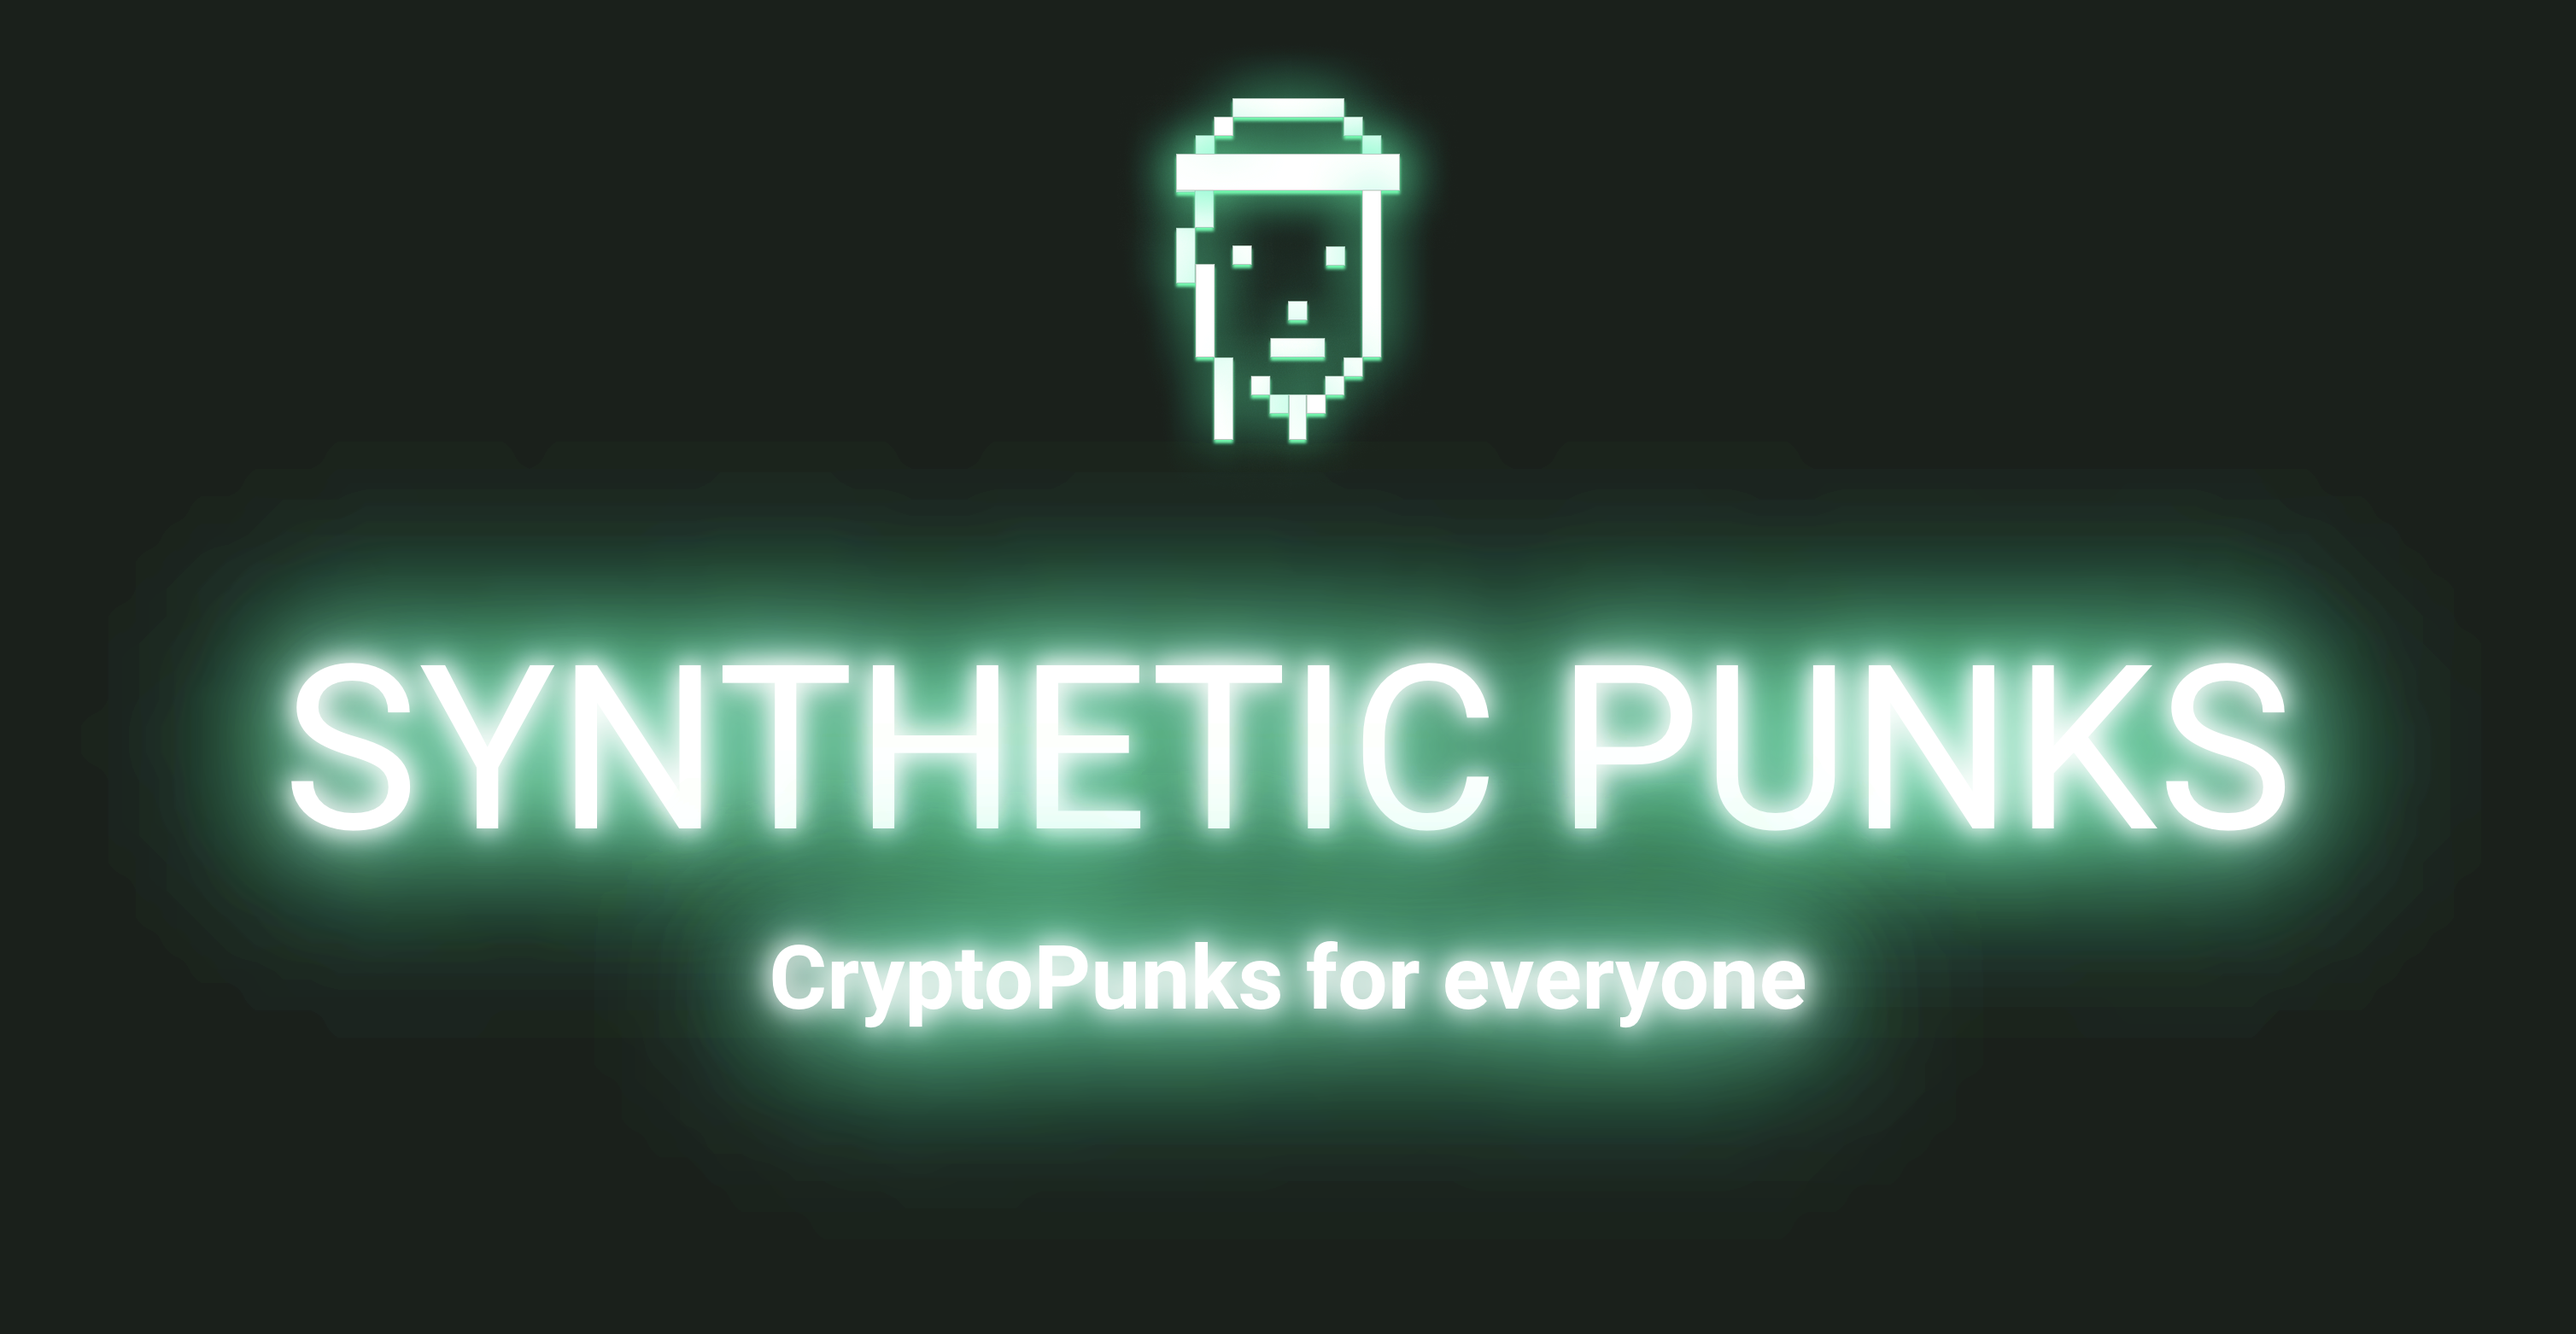
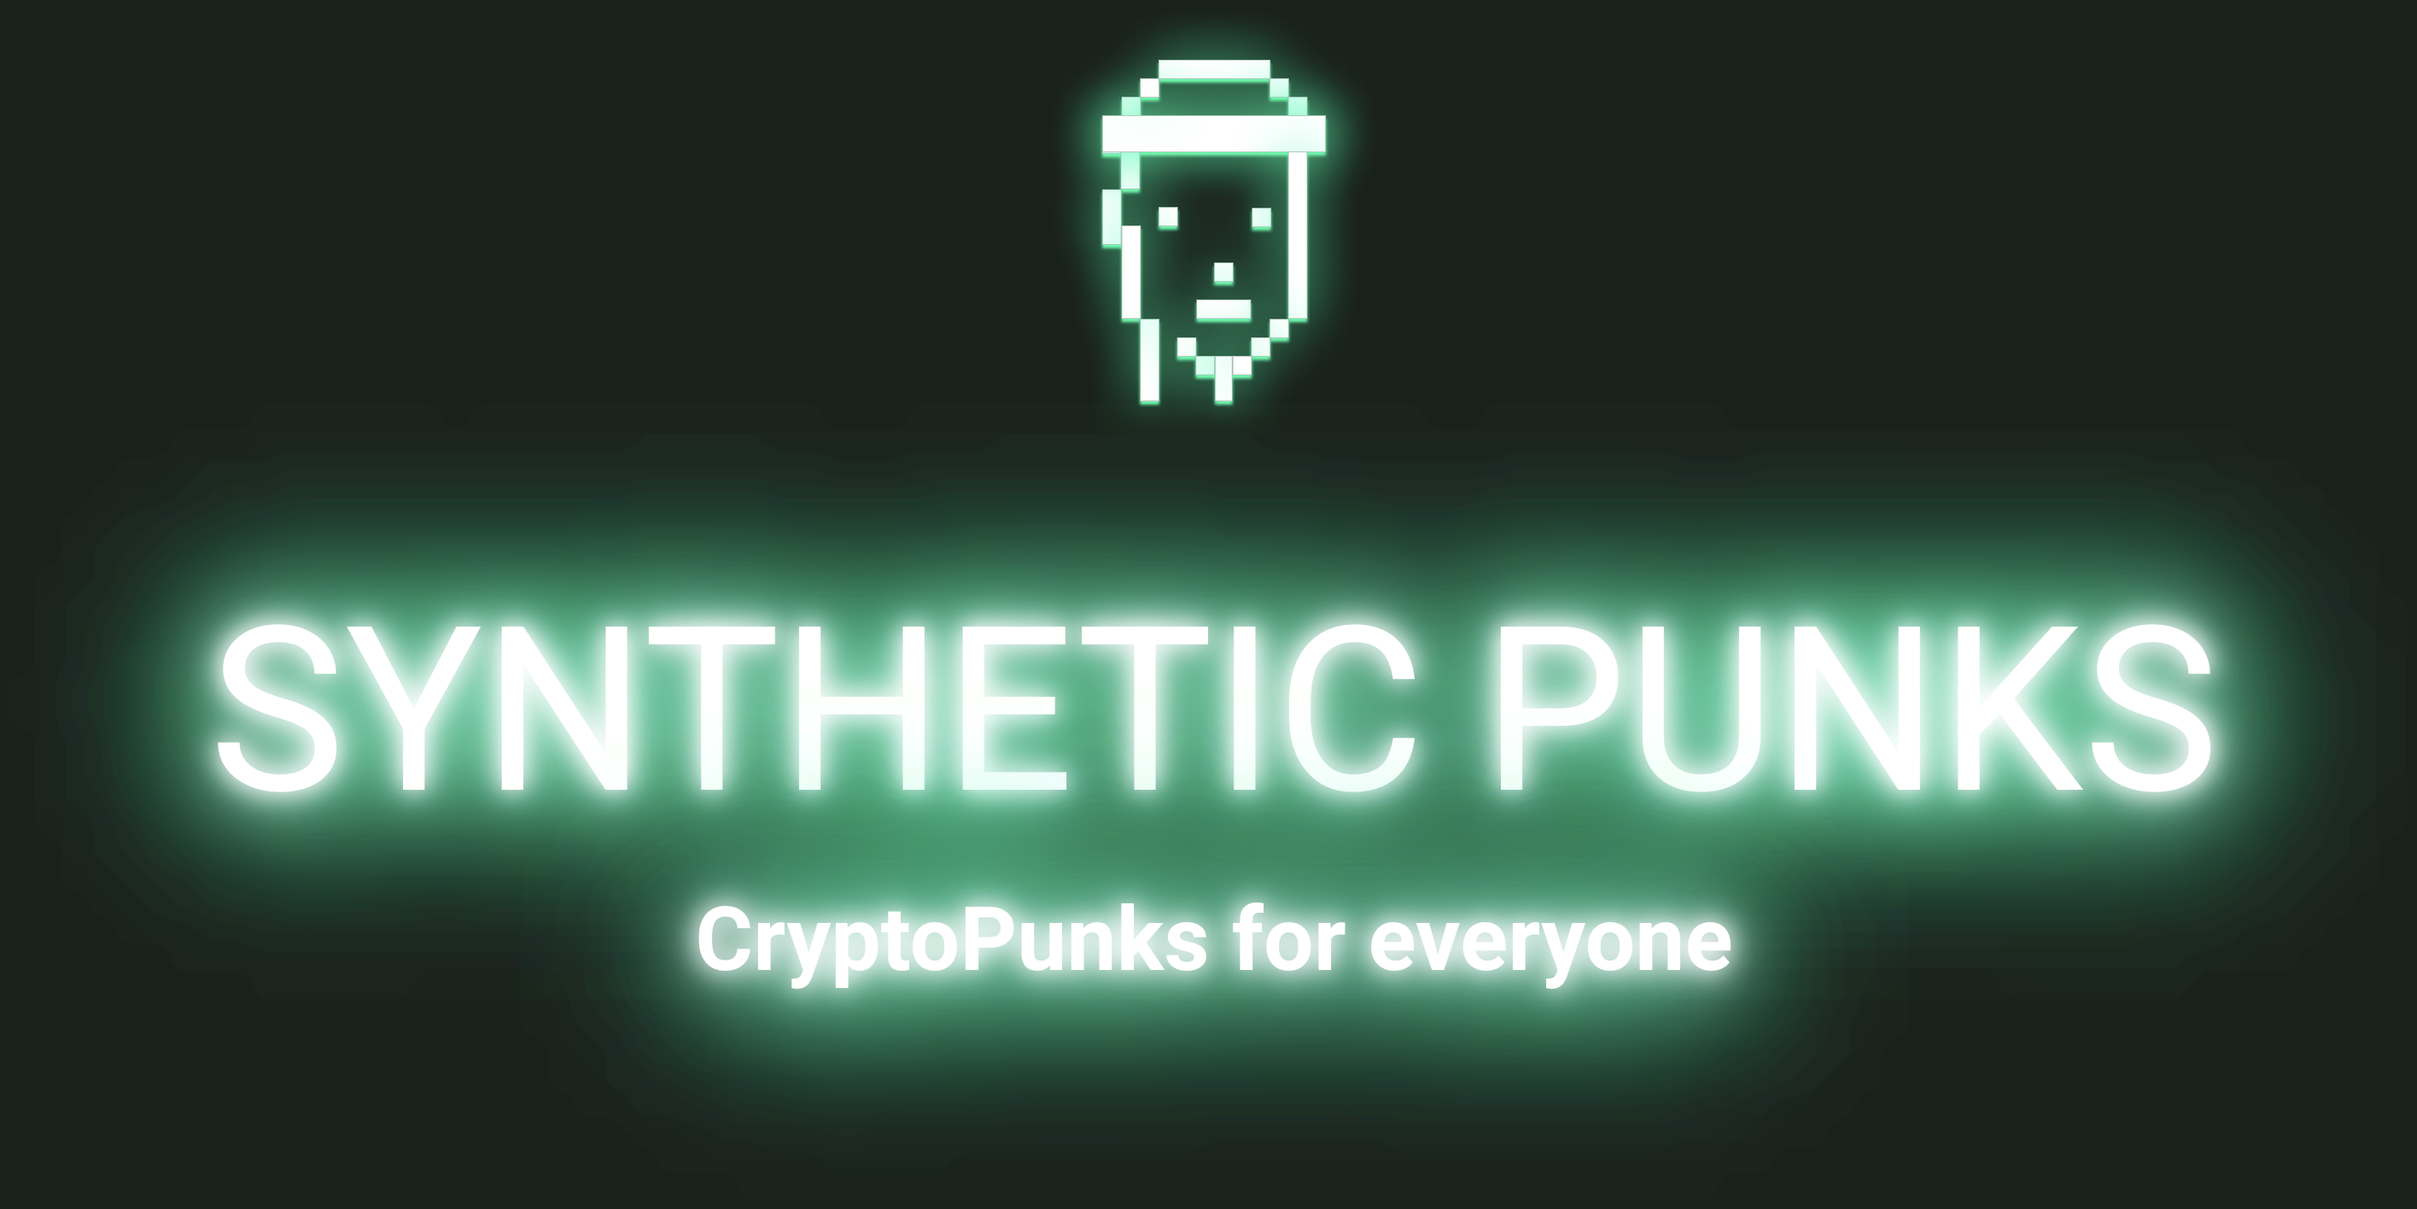
Add connect modal, crop header, update home layout

Changed region(s): [[0.0311, 0.4661, 0.9636, 0.9011], [0.4352, 0.0311, 0.5595, 0.3418]]

diff --git a/client/src/components/ConnectButton/ConnectButton.tsx b/client/src/components/ConnectButton/ConnectButton.tsx
@@ -1,6 +1,7 @@
 import { useEffect, useState } from 'react';
 import { useAccount, useConnect, useSigner } from 'wagmi'
 import { truncateAddress } from "../../utilities";
+import { GenericModal } from '../GenericModal/GenericModal';
 import style from "./ConnectButton.module.css"
 
 export const ConnectButton = () => {
@@ -18,29 +19,30 @@ export const ConnectButton = () => {
   }, [signer])
 
   return (
-    <div style={{marginTop:"0px", marginBottom:"70px"}}>
+    <>
       {accountData 
       ? 
         <button className={style.connectBtn}onClick={() => disconnect()}>Disconnect {ensName || truncateAddress(accountData.address)}</button> 
       : 
         <button className={style.connectBtn} onClick={() => setIsConnecting(!isConnecting)}>Connect</button> 
       }
-      {isConnecting && 
-      <div className={style.connectModalCard}>
-        {connectData.connectors.map((connector) => (
-          <button className={style.walletOption}
-            disabled={!connector.ready}
-            key={connector.id}
-            onClick={() => connect(connector)}
-          >
-            {connector.name}
-            {!connector.ready && ' (unsupported)'}
-          </button>
-        ))}
-        <button className={style.backBtn} onClick={() => setIsConnecting(!isConnecting)} >Back </button>
-        {error && <div>{error?.message ?? 'Failed to connect'}</div>}
-      </div>
-      }
-    </div>
+      <GenericModal setShouldShow={setIsConnecting} shouldShow={isConnecting} content={
+        <div className={style.connectModalCard}>
+          <h1 style={{textAlign: "left", marginBottom: "20px"}}>Connect</h1>
+          {connectData.connectors.map((connector) => (
+            <button className={style.walletOption}
+              disabled={!connector.ready}
+              key={connector.id}
+              onClick={() => connect(connector)}
+            >
+              {connector.name}
+              {!connector.ready && ' (unsupported)'}
+            </button>
+          ))}
+          {/* <button className={style.backBtn} onClick={() => setIsConnecting(!isConnecting)} >Back </button> */}
+          {error && <div>{error?.message ?? 'Failed to connect'}</div>}
+        </div>
+      }></GenericModal>
+    </>
   )
 }

diff --git a/client/src/App.tsx b/client/src/App.tsx
@@ -41,14 +41,17 @@ function App() {
         <a href="https://github.com/stephancill/synthetic-punks" target="_blank" rel="noopener noreferrer"><img src={github}/></a>
         <a href="https://etherscan.io/address/0xaf9ce4b327a3b690abea6f78eccbfefffbea9fdf" target="_blank" rel="noopener noreferrer"><img src={etherscan}/></a>
       </div>
-      <ConnectButton/>
+      <div style={{marginTop: "40px", marginBottom: "40px", width: "90%", maxWidth: "400px", display: "flex", justifyContent: "center"}}>
+        <ConnectButton/>
+      </div>
+      
       {network && switchNetwork && network.chain?.id !== deploymentChain 
       ?
         <button onClick={() => switchNetwork(deploymentChain)}>Switch to {deployments.name}</button>
       :
         <Routes>
           <Route path="/" element={
-            <div style={{display: "flex", width: "90%", maxWidth: "400px"}}>
+            <div style={{display: "flex", width: "90%", maxWidth: "400px", marginBottom: "40px"}}>
               <Search onSearch={(address) => navigate(`/address/${address}`)}/>
             </div>
           }/>

diff --git a/client/src/components/GenericModal/GenericModal.tsx b/client/src/components/GenericModal/GenericModal.tsx
@@ -1,0 +1,30 @@
+import style from "./GenericModal.module.css"
+import {useEffect} from "react"
+
+interface IGenericModalProps {
+  shouldShow: boolean
+  setShouldShow: (visible: boolean) => void,
+  content: JSX.Element
+}
+
+export const GenericModal = ({shouldShow, setShouldShow, content}: IGenericModalProps) => {
+
+  useEffect(() => {
+    if (shouldShow) {
+      document.body.style.overflow = 'hidden'
+      window.scrollTo(0, 0)
+    } else {
+      document.body.style.overflow = 'unset'
+    }
+  }, [shouldShow])
+
+  return <div style={{display: shouldShow ? "block" : "none"}}> 
+    <div onClick={() => {setShouldShow(!shouldShow)}} 
+    style={{backgroundColor: "var(--shadow)", opacity: "0.7", zIndex: "1"}} className={style.fullscreenModal}></div>
+    <div className={style.fullscreenModal}>
+      <div className={style.modalContainer}>
+        {content}
+      </div>
+    </div>
+  </div>
+}

diff --git a/client/src/components/ConnectButton/ConnectButton.module.css b/client/src/components/ConnectButton/ConnectButton.module.css
@@ -1,5 +1,5 @@
 .connectBtn {
-  width: 220px;
+  width: 100%;
   padding-top: 10px;
   padding-bottom: 10px;
   border: white 2px solid;
@@ -19,20 +19,11 @@
 }
 
 .connectModalCard {
-  width: 240px !important;
   border-radius: 8px;
   background: var(--dark);
-  margin-top: -48px;
   text-align: center;
   padding: 15px;
-  padding-bottom: 0px;
   z-index: 1;
-  margin-left: -135px;
-  position: absolute;
-  top: 50%;
-  left: 50%;
-
-  box-shadow: 0px 0px 2000px 800px rgba(0, 0, 0, 0.7);
 }
 .walletOption {
   background-color: #007951;
@@ -40,9 +31,7 @@
   height: 40px;
   color: white;
   font-size: 16px;
-  font-weight: bold;
   border: none;
-  cursor: pointer;
   border-radius: 5px;
   margin-bottom: 10px;
   transition-duration: 0.2s;

diff --git a/client/src/components/PunkCard/PunkCard.tsx b/client/src/components/PunkCard/PunkCard.tsx
@@ -30,7 +30,7 @@ export const PunkCard = () => {
   const navigate = useNavigate()
   const location = useLocation()
 
-  const address = rawAddress ? isAddress(rawAddress) ? getAddress(rawAddress) : undefined : undefined
+  const address = rawAddress ? isAddress(rawAddress.toLowerCase()) ? getAddress(rawAddress.toLowerCase()) : undefined : undefined
   const addressType = randomWallet?.address === address ? AddressType.Random : account?.address === address ? AddressType.Signer : AddressType.Search
 
   const [{ data: ensName, loading: loadingEns }] = useEnsLookup({address})

diff --git a/client/src/components/GenericModal/GenericModal.module.css b/client/src/components/GenericModal/GenericModal.module.css
@@ -1,0 +1,19 @@
+.fullscreenModal {
+  width: 100vw;
+  height: 100vh;
+  position: absolute;
+  left: 0px;
+  top: 0px;
+  display: flex;
+  justify-content: center;
+}
+
+.modalContainer {
+  width: 90%;
+  max-width: 400px;
+  height: fit-content;
+  margin-top: 100px;
+  z-index: 2;
+  position: relative;
+  padding: 40px;
+}

diff --git a/client/src/App.css b/client/src/App.css
@@ -1,4 +1,5 @@
 :root {
+  --shadow: #0e1310;
   --dark: #18201b;
   --lighter: #2a3830;
   --primary: #00b87b;
